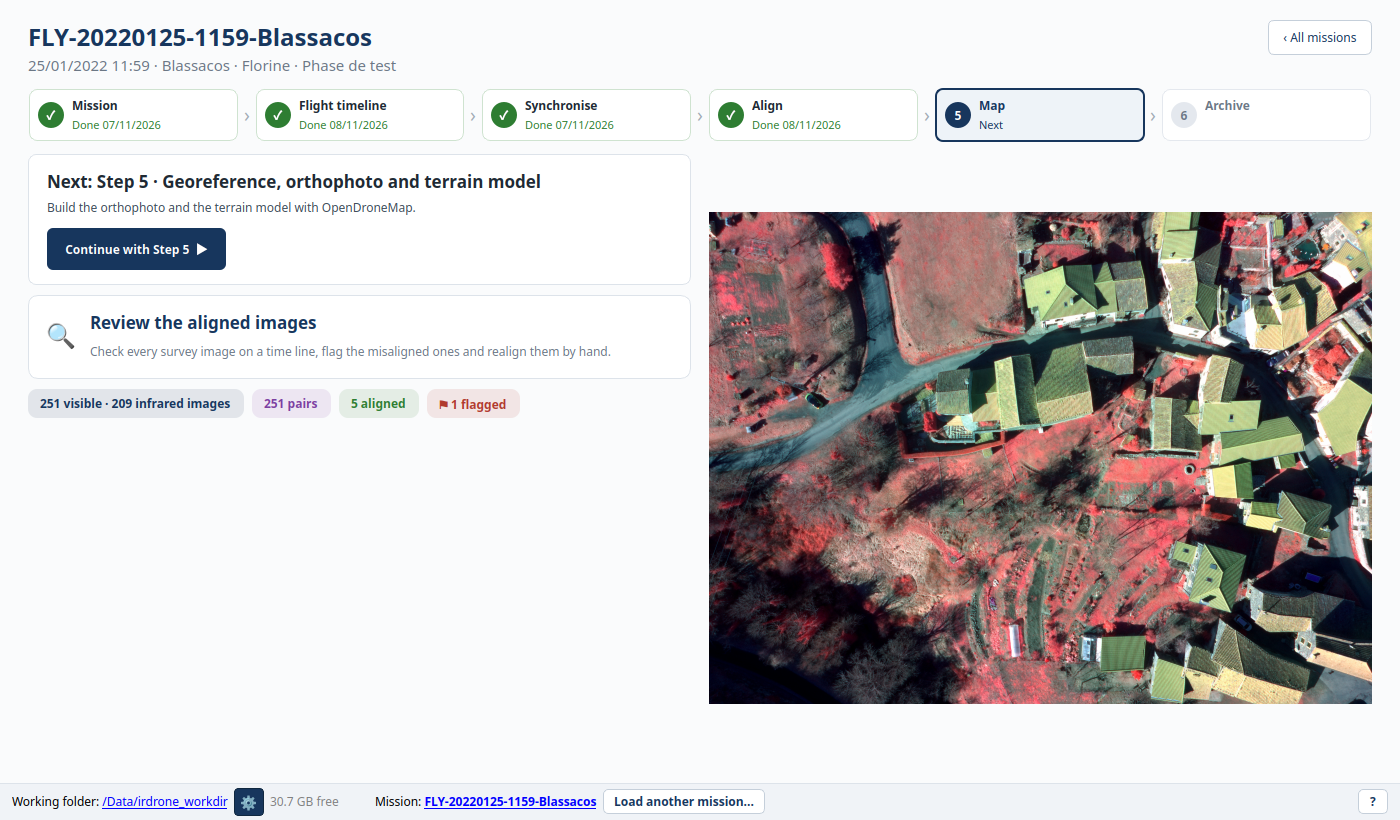
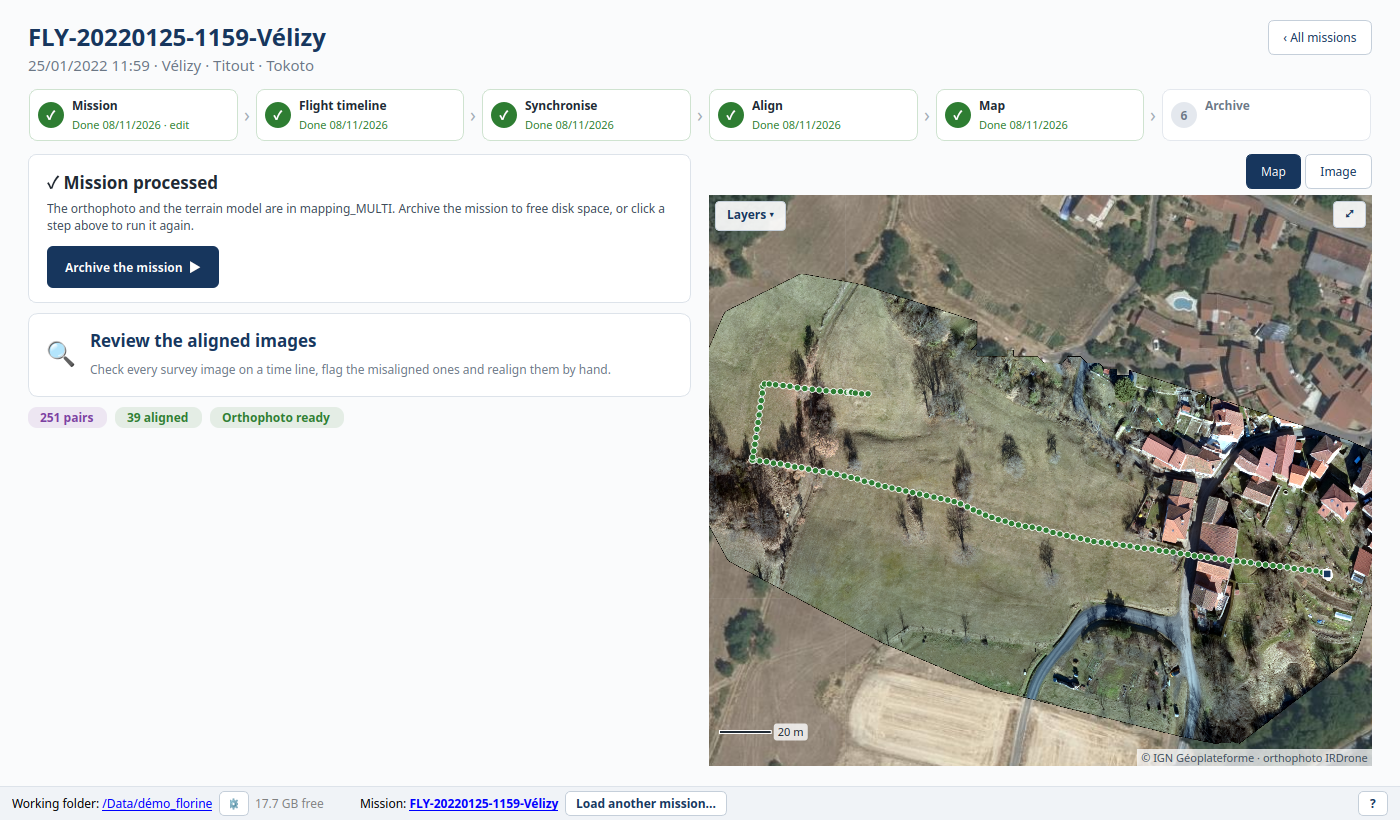
Home: flight map on the mission page from Step 1 (EXIF side cars), points coloured by the Step 2 phases, orthophoto and aerial photos; Map / Image switch

diff --git a/help/irdrone_help.tex b/help/irdrone_help.tex
@@ -388,9 +388,9 @@ Vous devez avoir sur un support numérique (carte SD, disque dur) les images des
 Pour une nouvelle mission il faut suivre dans l'ordre les étapes 1 à 5. 
 Cependant les étapes 2 à 5 peuvent être lancées individuellement, à condition que le dossier de la mission comporte au minimum les éléments produits par les étapes qui la précèdent. C'est particulièrement utile pour les étapes 4 et 5.
 
-\paragraph{Page d'accueil.} Sans mission chargée, la fenêtre principale propose \bouton{New mission} (étape~1), \bouton{Open a mission} et la liste des missions récentes du dossier de travail, avec leur avancement (un point vert par étape faite). Une fois la mission chargée, elle affiche les six étapes de gauche à droite (coche verte et date pour une étape faite, cadre bleu pour l'étape suivante), l'étape suivante (bouton \bouton{Continue with Step N}), quelques chiffres (images, paires, images alignées, points signalés) et l'accès à la revue des images alignées (figure~\ref{fig:home_mission}). Un clic sur une étape la lance, même déjà faite (pour la refaire) ; l'étape~1 faite ouvre seulement la fenêtre \og Mission details \fg~(lieu, description, pilote, caméras et filtre, enregistrés dans \texttt{mission\_parameters.json}, l'ancien fichier gardé en \texttt{.bak}) : les cartes SD ne sont pas relues et le dossier garde son nom. Une nouvelle mission se crée depuis \bouton{All missions} ; un clic droit ouvre ce manuel à son chapitre. \bouton{All missions} revient à la liste des missions. La barre du bas rappelle le dossier de travail (roue dentée pour le changer), la mission chargée (clic : ouvre son dossier) et \bouton{Load another mission...}.
+\paragraph{Page d'accueil.} Sans mission chargée, la fenêtre principale propose \bouton{New mission} (étape~1), \bouton{Open a mission} et la liste des missions récentes du dossier de travail, avec leur avancement (un point vert par étape faite). Une fois la mission chargée, elle affiche les six étapes de gauche à droite (coche verte et date pour une étape faite, cadre bleu pour l'étape suivante), l'étape suivante (bouton \bouton{Continue with Step N}), quelques chiffres (images, paires, images alignées, points signalés), l'accès à la revue des images alignées et, à droite, la carte du vol (figure~\ref{fig:home_mission}). La carte est disponible dès l'étape~1 (positions lues dans les EXIF des images visibles) : la trajectoire, les points colorés selon les phases confirmées à l'étape~2 (violet : synchronisation, vert : relevé), l'orthophoto une fois l'étape~5 faite, et en fond les photos aériennes IGN, Esri ou OpenStreetMap (menu \bouton{Layers}). Un clic sur un point montre l'emprise au sol de son image. Le fond vient d'internet ; hors ligne, la carte s'affiche sans fond. \bouton{Image} montre à la place une image alignée de la mission. Un clic sur une étape la lance, même déjà faite (pour la refaire) ; l'étape~1 faite ouvre seulement la fenêtre \og Mission details \fg~(lieu, description, pilote, caméras et filtre, enregistrés dans \texttt{mission\_parameters.json}, l'ancien fichier gardé en \texttt{.bak}) : les cartes SD ne sont pas relues et le dossier garde son nom. Une nouvelle mission se crée depuis \bouton{All missions} ; un clic droit ouvre ce manuel à son chapitre. \bouton{All missions} revient à la liste des missions. La barre du bas rappelle le dossier de travail (roue dentée pour le changer), la mission chargée (clic : ouvre son dossier) et \bouton{Load another mission...}.
 
-\figureIRD[fig:home_mission]{home_mission.png}{La mission chargée : les six étapes (un clic lance une étape), étape suivante, chiffres de la mission et revue des images alignées.}{0.9}
+\figureIRD[fig:home_mission]{home_mission.png}{La mission chargée : les six étapes (un clic lance une étape), étape suivante, chiffres de la mission, revue des images alignées et carte du vol sur l'orthophoto et les photos aériennes IGN.}{0.9}
 
 \paragraph{Enchaînement automatique.} Les étapes s'enchaînent d'elles-mêmes : à la fin de l'étape~1, \bouton{Flight timeline} ouvre l'étape~2 ; \bouton{Confirm and synchronize} de l'étape~2 lance l'étape~3 (détection des mires, décalage, puis, une fois les courbes vérifiées, appariement), qui lance l'étape~4 au bout de 5~secondes ; à la fin de l'étape~4 la revue des images alignées s'ouvre. Il ne reste qu'à vérifier les phases du vol, la superposition des courbes de synchronisation, puis le résultat.
 
@@ -830,6 +830,8 @@ Le bouton \bouton{Review images} (ouvert automatiquement à la fin d'un traiteme
   \item \textbf{Situer.} La mini-carte (sous les boutons) montre le vol, le point courant et l'emprise au sol de l'image (le trait épais est le haut de l'image) ; un clic l'agrandit (\bouton{Map}, touche 5). La grande carte affiche l'image alignée dans son emprise, par-dessus l'orthophoto de l'étape~5 quand elle existe et les photos aériennes en fond : l'infrarouge doit prolonger les routes et les haies du fond. Survoler un point montre sa vignette, un clic le sélectionne ; molette et glisser pour zoomer et se déplacer, double-clic pour voir tout le vol. Le menu \bouton{Layers} choisit le fond (photos IGN pour la France, Esri World Imagery, OpenStreetMap ou aucun) et l'orthophoto en couleurs naturelles ou en fausses couleurs infrarouges.
 
   Le fond de carte vient d'internet : sans connexion, la carte reste utilisable (vol, emprises, orthophoto), seul le fond manque. Les tuiles déjà vues sont gardées dans un cache (\texttt{\textasciitilde/.cache/irdrone} sous Linux, \texttt{\%LOCALAPPDATA\%\textbackslash IRDrone} sous Windows) et s'affichent ensuite hors ligne. L'emprise est calculée avec la hauteur au-dessus du sol (modèle de terrain de l'étape~5, ou altitudes IGN) et le cap de l'image ; une fois la cartographie faite, le cap vient d'OpenDroneMap, plus juste que la boussole du drone (souvent fausse de 5 à 10\textdegree).
+
+\figureIRD[fig:step4_review_map]{step4_review_map.png}{Mode \og Map \fg~de la revue : vol, emprise et image alignée du point courant, orthophoto de l'étape~5 sur les photos aériennes IGN.}{0.9}
   \item \textbf{Décider.} \bouton{Looks good} (barre d'espace) marque le point comme vérifié et passe au suivant à revoir. \bouton{Flag misaligned} (touche F) le signale comme mal aligné : il est écrit tout de suite dans \texttt{ImgIRdrone/shoot\_points.json} et l'étape~5 l'ignore. \bouton{Flag the probably misaligned} signale d'un coup tous les points orange non vérifiés.
   \item \textbf{Réaligner.} \bouton{Realign N flagged by hand} ouvre, point par point, la fenêtre d'alignement semi-automatique (§\ref{btn:step4_redo}). Une fois cette fenêtre fermée, la nouvelle image s'affiche dans la revue : \bouton{Yes, aligned} retire le signalement, \bouton{Still misaligned} le garde ; le point suivant s'ouvre ensuite.
 \end{itemize}

diff --git a/irdrone_wizard/IRD_Interactive_home.py b/irdrone_wizard/IRD_Interactive_home.py
@@ -495,10 +495,79 @@ class HomePage(QStackedWidget):
         left.addLayout(self.figures)
         left.addStretch(1)
         body.addLayout(left, 1)
+        right = QVBoxLayout()
+        right.setSpacing(6)
+        switch = QHBoxLayout()
+        switch.setSpacing(4)
+        switch.addStretch(1)
+        self.btn_show_map = QPushButton("Map")
+        self.btn_show_image = QPushButton("Image")
+        for b in (self.btn_show_map, self.btn_show_image):
+            b.setCheckable(True)
+            b.setStyleSheet(Look.SECONDARY_STYLE)
+            b.setFocusPolicy(Qt.FocusPolicy.NoFocus)
+            switch.addWidget(b)
+        self.btn_show_map.setToolTip("The flight on the map: phases of Step 2, orthophoto of Step 5, aerial photos "
+                                     "(online). Click a point to see the ground covered by its image.")
+        self.btn_show_image.setToolTip("An aligned image of the mission")
+        self.btn_show_map.clicked.connect(lambda: self._show_right("map"))
+        self.btn_show_image.clicked.connect(lambda: self._show_right("image"))
+        right.addLayout(switch)
+        self.right_stack = QStackedWidget()
         self.picture = ScaledPicture()
-        body.addWidget(self.picture, 1)
+        self.map_holder = QWidget()
+        self.map_holder_lay = QVBoxLayout(self.map_holder)
+        self.map_holder_lay.setContentsMargins(0, 0, 0, 0)
+        self.right_stack.addWidget(self.picture)
+        self.right_stack.addWidget(self.map_holder)
+        right.addWidget(self.right_stack, 1)
+        body.addLayout(right, 1)
         lay.addLayout(body, 1)
+        self.map_view = None
+        self._map_key = None
+        self._right = "map"
         return page
+
+    def _show_right(self, which):
+        if which == "map" and self.map_view is None:
+            which = "image"
+        else:
+            self._right = which
+        self.right_stack.setCurrentWidget(self.map_holder if which == "map" else self.picture)
+        self.btn_show_map.setChecked(which == "map")
+        self.btn_show_image.setChecked(which == "image")
+
+    def _update_map(self, folder: Path):
+        """Flight map of the mission (built again only when its files changed)."""
+        import flight_map as F
+
+        def stamp(path):
+            try:
+                return path.stat().st_mtime
+            except OSError:
+                return None
+        key = (str(folder), stamp(folder / "AerialPhotography" / "shoot_points.json"),
+               stamp(F.orthophoto_path(folder)), stamp(folder / "FlightAnalytics" / "flight_timeline.json"),
+               stamp(folder / "AerialPhotography" / "VIS"))
+        if key == self._map_key:
+            return
+        self._map_key = key
+        if self.map_view is not None:
+            self.map_view.setParent(None)
+            self.map_view.deleteLater()
+            self.map_view = None
+        try:
+            import IRD_Interactive_map as MapV
+            model = MapV.map_model_for(folder, parent=self)
+        except Exception as e:  # the map is a help, never a blocker
+            print(f"Map unavailable: {e}")
+            model = None
+        if model is not None:
+            self.map_view = MapV.FlightMapView(model)
+            self.map_view.picked.connect(model.set_current)
+            self.map_view.hovered.connect(model.set_hover)
+            self.map_holder_lay.addWidget(self.map_view)
+        self.btn_show_map.setEnabled(self.map_view is not None)
 
     def show_mission(self, folder: Optional[Path]):
         """Mission page of `folder` (None: welcome page)."""
@@ -538,6 +607,8 @@ class HomePage(QStackedWidget):
         self.picture.set_picture(QPixmap(str(pic)) if pic is not None else (
             QPixmap(str(self.hero_image)) if self.hero_image and Path(self.hero_image).is_file() else None))
         self.picture.setToolTip(pic.name if pic is not None else "")
+        self._update_map(info.folder)
+        self._show_right(self._right)
         self.setCurrentIndex(1)
 
     def _continue(self):

diff --git a/irdrone_wizard/IRD_Interactive_map.py b/irdrone_wizard/IRD_Interactive_map.py
@@ -112,9 +112,12 @@ class MapModel(QObject):
     changed = pyqtSignal()
 
     def __init__(self, points: List[F.MapPoint], fov=None, ortho: Optional[F.OrthoPreview] = None,
-                 color_of: Optional[Callable[[int], QColor]] = None, parent=None):
+                 color_of: Optional[Callable[[int], QColor]] = None, path: Optional[List[F.MapPoint]] = None,
+                 parent=None):
         super().__init__(parent)
         self.points = points
+        # the whole flight (line), the points are the shoot points on it
+        self.path_xy = [p.xy for p in path] if path else None
         self.numbers = [p.number for p in points]
         self._index = {n: i for i, n in enumerate(self.numbers)}
         self.xy = [p.xy for p in points]
@@ -407,8 +410,9 @@ class FlightMapView(QWidget):
         if not xy:
             return
         pts = [QPointF(*self.to_screen(x, y)) for x, y in xy]
-        path = QPainterPath(pts[0])
-        for q in pts[1:]:
+        line = [QPointF(*self.to_screen(x, y)) for x, y in self.model.path_xy] if self.model.path_xy else pts
+        path = QPainterPath(line[0])
+        for q in line[1:]:
             path.lineTo(q)
         p.setBrush(Qt.BrushStyle.NoBrush)
         p.setPen(QPen(QColor(255, 255, 255, 200), 4 if not self.compact else 3))
@@ -424,7 +428,7 @@ class FlightMapView(QWidget):
         # take-off
         p.setPen(QPen(QColor("white"), 1.5))
         p.setBrush(QColor("#17365D"))
-        p.drawRect(QRectF(pts[0].x() - 4, pts[0].y() - 4, 8, 8))
+        p.drawRect(QRectF(line[0].x() - 4, line[0].y() - 4, 8, 8))
 
     def _quad(self, index) -> Optional[QPolygonF]:
         fp = self.model.footprint(index)
@@ -622,15 +626,31 @@ class _OrthoJob(QRunnable):
             pass
 
 
-def map_model_for(mission: Path, color_of=None, with_ortho: bool = True, parent=None) -> Optional[MapModel]:
-    """Model of a mission's flight (None without positions). The orthophoto
-    is read in the background and appears when ready. `color_of(number)`
-    gives the colour of a shoot point."""
-    track = F.mission_track(mission)
+PHASE_COLORS = {"sync": Look.SYNC, "survey": Look.SURVEY}
+
+
+def phase_colors(mission: Path):
+    """color_of(number) after the phases of Step 2 (grey outside them)."""
+    ph = F.phases(mission)
+    other = QColor("#A0AAB4")
+    return lambda number: PHASE_COLORS.get(ph.get(number), other)
+
+
+def map_model_for(mission: Path, color_of=None, with_ortho: bool = True, shoot_points_only: bool = False,
+                  parent=None) -> Optional[MapModel]:
+    """Model of a mission's flight (None without positions): the shoot
+    points (every visible image before Step 3) on the whole flight. The
+    orthophoto and the ground are read in the background. `color_of(number)`
+    gives the colour of a point (default: phases of Step 2)."""
+    track = F.mission_track(mission, shoot_points_only=shoot_points_only)
     if not track:
         return None
+    if color_of is None:
+        color_of = phase_colors(mission)
+    path = F.image_track(mission)
     model = MapModel(track, fov=F.field_of_view(F.camera_model(mission)), parent=parent,
-                     color_of=None if color_of is None else (lambda i: color_of(track[i].number)))
+                     path=path if len(path) > len(track) else None,
+                     color_of=lambda i: color_of(track[i].number))
     # in the background: ground under the drone (footprint size), orthophoto
     job = _OrthoJob(Path(mission), track, with_ortho and F.orthophoto_path(mission).is_file())
     model._job = job                      # keeps the signals alive

diff --git a/irdrone_wizard/flight_map.py b/irdrone_wizard/flight_map.py
@@ -192,17 +192,65 @@ def odm_yaws(mission: Path) -> Dict[int, float]:
     return out
 
 
-def mission_track(mission: Path) -> List[MapPoint]:
-    """Every paired shoot point of the mission with a position, in time order.
+def _number(stem: str, default: int) -> int:
+    digits = re.search(r"(\d+)(?!.*\d)", stem)
+    return int(digits.group(1)) if digits else default
+
+
+def image_track(mission: Path) -> List[MapPoint]:
+    """Every visible image of the mission with a position (the .exif side
+    cars written in Step 1), in shooting order: the whole flight."""
+    folder = Path(mission) / "AerialPhotography" / "VIS"
+    try:
+        sides = sorted(folder.glob("*.exif"), key=lambda p: _number(p.stem, 0))
+    except OSError:
+        return []
+    out = []
+    for side in sides:
+        try:
+            with open(side, encoding="utf-8") as f:
+                exif = json.load(f)
+        except (OSError, ValueError):
+            continue
+        if isinstance(exif, dict):
+            point = map_point(_number(side.stem, len(out)), side.stem, exif)
+            if point is not None:
+                out.append(point)
+    return out
+
+
+def phases(mission: Path) -> Dict[int, str]:
+    """Image number -> "sync" / "survey", from the phases confirmed in Step 2."""
+    try:
+        with open(Path(mission) / "FlightAnalytics" / "flight_timeline.json", encoding="utf-8") as f:
+            state = json.load(f)
+        chosen = state.get("confirmed") or state.get("proposed") or {}
+    except (OSError, ValueError, AttributeError):
+        return {}
+    out = {}
+    for key, name in (("VIS sync", "sync"), ("VIS survey", "survey")):
+        pair = chosen.get(key) if isinstance(chosen, dict) else None
+        if isinstance(pair, list) and len(pair) == 2:
+            a, b = (_number(Path(str(x)).stem, -1) for x in pair)
+            for n in range(min(a, b), max(a, b) + 1):
+                out[n] = name
+    return out
+
+
+def mission_track(mission: Path, shoot_points_only: bool = False) -> List[MapPoint]:
+    """The paired shoot points of the mission with a position, in time order
+    (before Step 3: every visible image, unless `shoot_points_only`).
     The image yaw comes from the mapping when it is done (else the gimbal)."""
     path = Path(mission) / "AerialPhotography" / "shoot_points.json"
     try:
         with open(path, encoding="utf-8") as f:
             data = json.load(f)
     except (OSError, ValueError):
-        return []
+        data = None
+    if not (isinstance(data, dict) and data.get("shoot_points")):
+        return [] if shoot_points_only else _with_mapping_yaw(mission, image_track(mission))
     out = []
-    for entry in data.get("shoot_points", []) if isinstance(data, dict) else []:
+    for entry in data.get("shoot_points", []):
         vis = entry.get("VIS") if isinstance(entry, dict) else None
         if not isinstance(vis, dict):
             continue
@@ -211,6 +259,10 @@ def mission_track(mission: Path) -> List[MapPoint]:
         point = map_point(int(digits) if digits else len(out), stem, vis)
         if point is not None:
             out.append(point)
+    return _with_mapping_yaw(mission, out)
+
+
+def _with_mapping_yaw(mission: Path, out: List[MapPoint]) -> List[MapPoint]:
     yaws = odm_yaws(mission) if out else {}
     # the compass error measured on the mapped images corrects the others
     errors = [(yaws[p.number] - p.yaw + 180) % 360 - 180 for p in out if p.number in yaws and p.yaw is not None]

diff --git a/tests/test_home_page.py b/tests/test_home_page.py
@@ -115,3 +115,45 @@ class MainWindowHomeTest(unittest.TestCase):
 
 if __name__ == "__main__":
     unittest.main()
+
+
+class HomeMapTest(unittest.TestCase):
+    """The mission page shows the flight on a map as soon as Step 1 is done."""
+
+    @classmethod
+    def setUpClass(cls):
+        import os
+        os.environ["IRDRONE_CACHE"] = tempfile.mkdtemp()
+        from PyQt6.QtWidgets import QApplication
+        cls.app = QApplication.instance() or QApplication([])
+
+    def setUp(self):
+        import flight_map as F
+        patcher = mock.patch.object(F.urllib.request, "urlopen", side_effect=OSError("offline"))
+        patcher.start()
+        self.addCleanup(patcher.stop)
+
+    def test_map_from_the_step1_side_cars(self):
+        root = Path(tempfile.mkdtemp())
+        m = make_mission(root, "FLY-20220125-1159-Blassac", done=(1,))
+        vis = m / "AerialPhotography" / "VIS"
+        vis.mkdir(parents=True)
+        for k in range(4):
+            (vis / f"VIS_{k + 1:04d}.exif").write_text(json.dumps(
+                {"DroneLatitude": 45.1695, "DroneLongitude": 3.4 + 0.0002 * k, "DroneAltitudeGround": 50.0,
+                 "GimbalYawDegree": -78.9}))
+        page = Home.HomePage()
+        page.show_mission(m)
+        self.assertIsNotNone(page.map_view)
+        self.assertEqual(len(page.map_view.model.points), 4)
+        self.assertIs(page.right_stack.currentWidget(), page.map_holder)
+        page.btn_show_image.click()
+        self.assertIs(page.right_stack.currentWidget(), page.picture)
+
+    def test_no_position_shows_the_image(self):
+        m = make_mission(Path(tempfile.mkdtemp()), "FLY-20220125-1159-Blassac", done=(1,))
+        page = Home.HomePage()
+        page.show_mission(m)
+        self.assertIsNone(page.map_view)
+        self.assertIs(page.right_stack.currentWidget(), page.picture)
+        self.assertFalse(page.btn_show_map.isEnabled())

diff --git a/irdrone_wizard/IRD_Interactive_review.py b/irdrone_wizard/IRD_Interactive_review.py
@@ -1101,7 +1101,7 @@ class ReviewDialog(QDialog):
     # ---- map
     def _make_map_model(self):
         try:
-            model = MapV.map_model_for(self.mission, color_of=self._map_color, parent=self)
+            model = MapV.map_model_for(self.mission, color_of=self._map_color, shoot_points_only=True, parent=self)
         except Exception as e:  # the map is a help, never a blocker
             print(f"Map unavailable: {e}")
             return None
